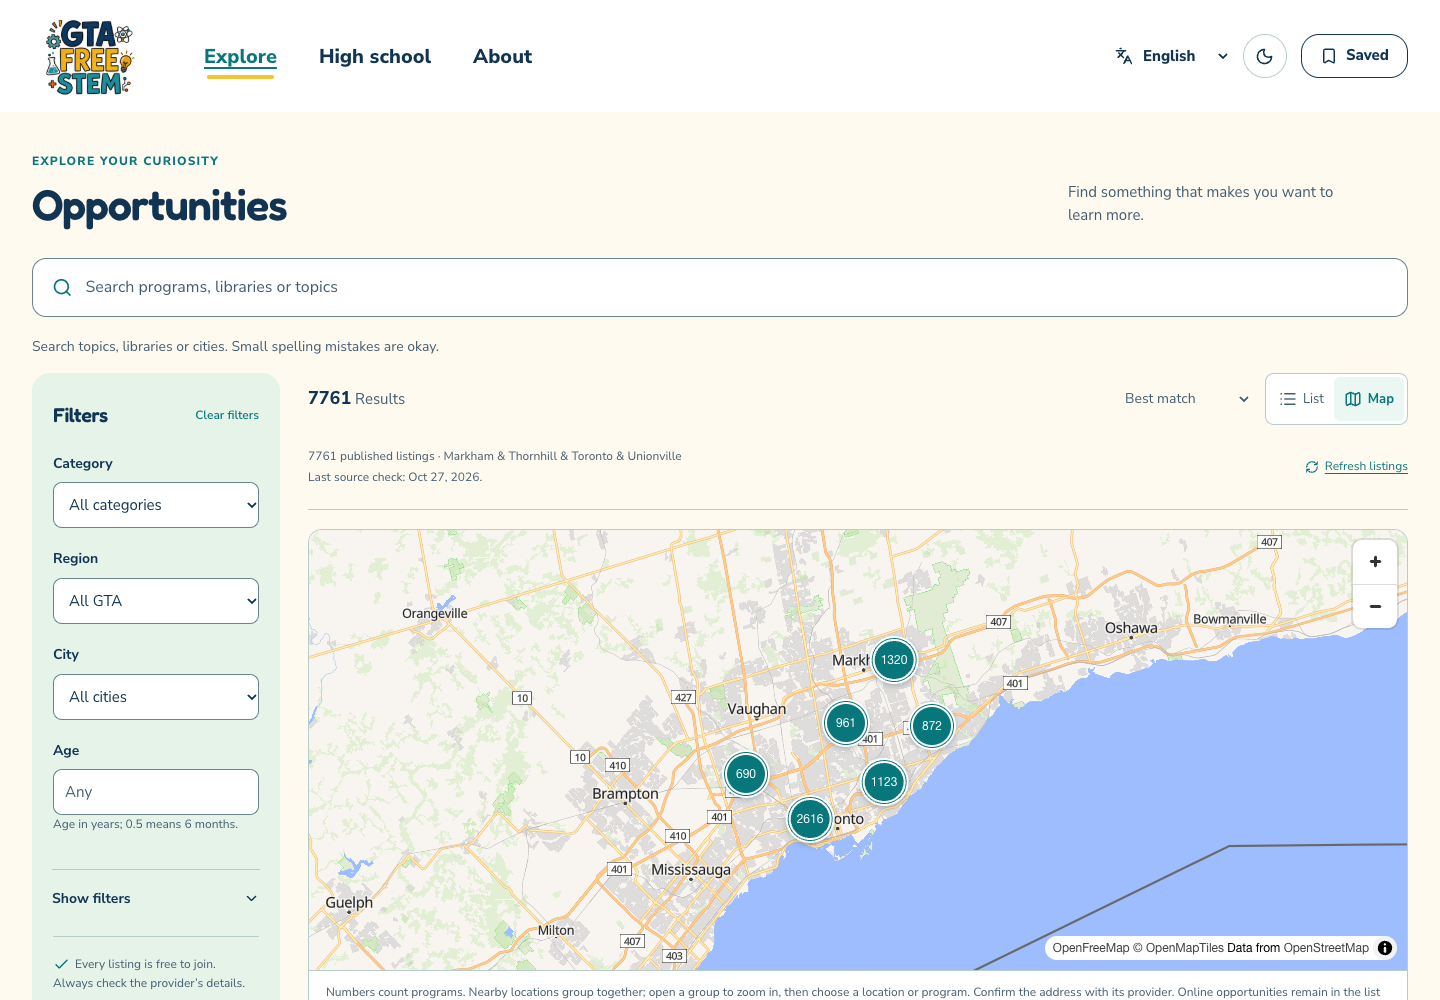
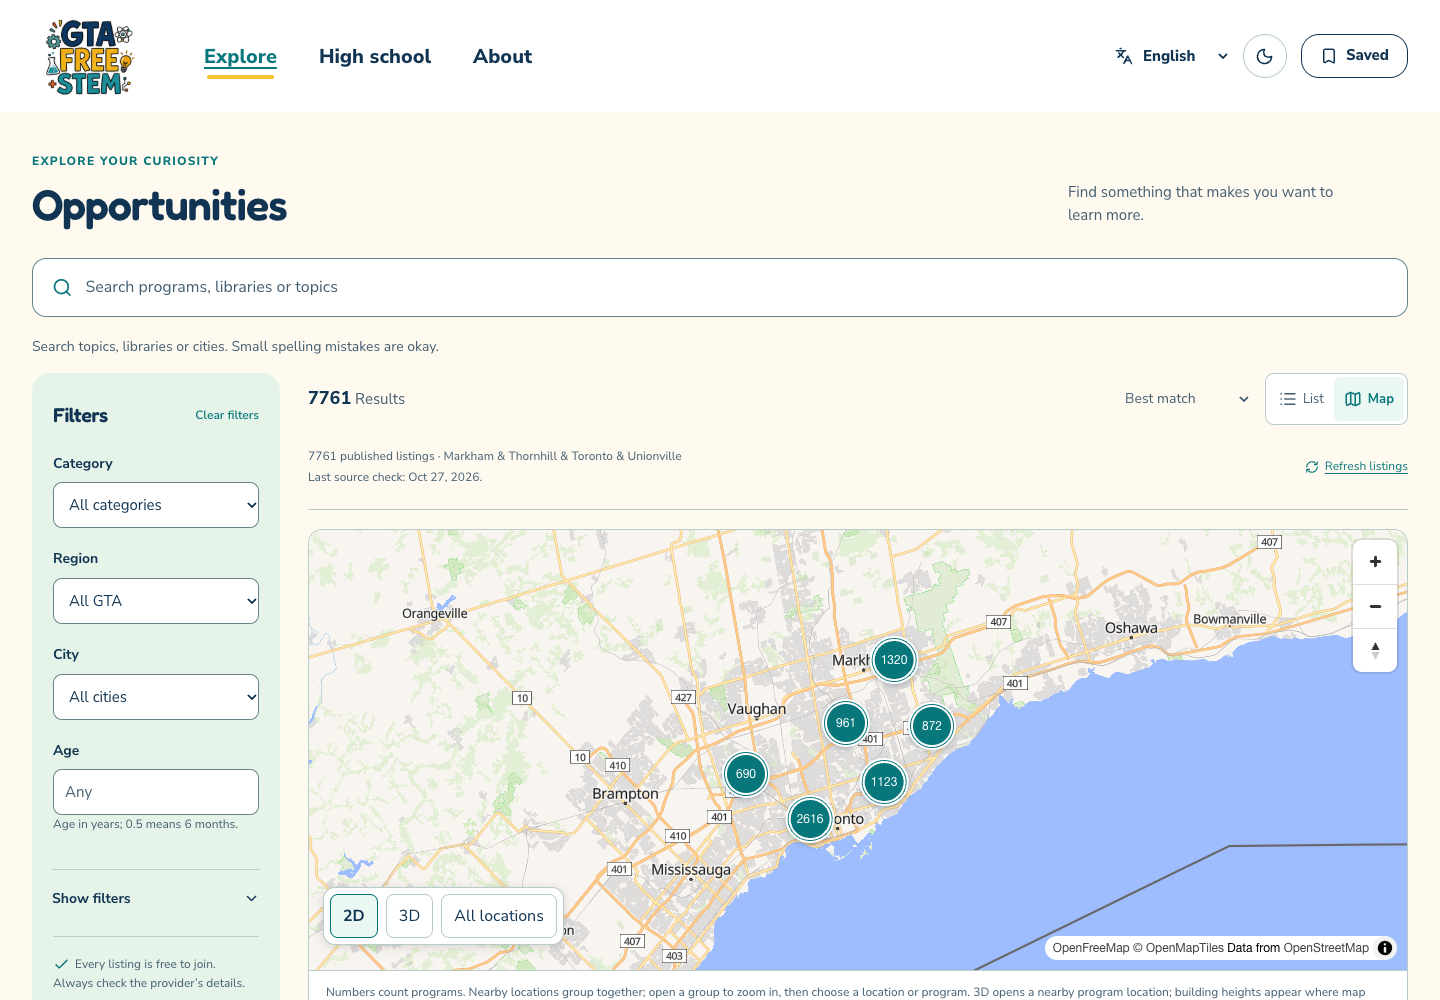
Show the live upright science branding and real 3D map

Changed region(s): [[0.2188, 0.868, 0.4062, 0.961], [0.6562, 0.992, 0.9688, 1.0], [0.9375, 0.62, 0.9688, 0.682]]

diff --git a/docs/showcase/README.md b/docs/showcase/README.md
@@ -1,11 +1,14 @@
 # Website screenshots and release checks
 
-These images were captured from the public website on October 27, 2026, after deploying [website release 779064a](https://github.com/rupayon123/gta-free-stem-opportunities/commit/779064a6e3bceffacb51639d95c6ddb825a6ce60).
+These images were captured from the public website on October 27, 2026, after deploying [website release d98c5d3](https://github.com/rupayon123/gta-free-stem-opportunities/commit/d98c5d3a4e4785ae40efe4e06824af8d9ed14fda).
 
 | Screenshot | What it shows | Browser viewport |
 | --- | --- | --- |
 | [Home](web-home-live-2026-10-27.png) | Original GTA logo, science icons, search and visible city/age/category filters | 1440 × 1000 |
 | [Map](web-browse-live-2026-10-27.png) | The default activity view, grouped location markers and the List switch | 1440 × 1000 |
+| [3D neighbourhood](web-3d-live-2026-10-27.png) | Real building heights and the 2D/3D/All locations controls | 1440 × 1000 |
+| [Dark 3D](web-3d-dark-live-2026-10-27.png) | 3D buildings after a live theme switch | 1440 × 1000 |
+| [Mobile 3D](web-3d-mobile-live-2026-10-27.png) | Narrow-screen map and touch controls | 390 × 844 |
 | [List](web-list-live-2026-10-27.png) | The same activities and filters presented as cards | 1440 × 1000 |
 | [Mobile](web-mobile-live-2026-10-27.png) | Compact branding and the search/filter form on a narrow screen | 390 × 1000 |
 
@@ -13,7 +16,7 @@ Capture method: headless Google Chrome with reduced motion enabled. Images are u
 
 ## Checks for this release
 
-Before pushing the application update, TypeScript, the full website QA suite, production build, dependency audit and all 7,810 sitemap/canonical-page checks passed. Browser checks covered phone, small phone, tablet and desktop layouts; animation pause/resume, keyboard operation and reduced motion; dark mode and Urdu right-to-left layout; typo search; Map-first and the List switch; saved activities surviving reload; directory/detail links; rapid query changes; and the List fallback when map tiles are unavailable. The production dependency audit reported zero vulnerabilities.
+Before pushing the application update, TypeScript, the full website QA suite, production build, dependency audit and all 7,810 sitemap/canonical-page checks passed. Browser checks covered phone, small phone, tablet and desktop layouts; whole-logo click/keyboard pause and resume with a jiggle, upright icons at five orbit positions and reduced motion; dark mode and Urdu right-to-left layout; typo search; Map-first, real 3D building rendering on desktop and phone in light/dark mode, 2D/3D/All locations controls and the List switch; saved activities surviving reload; directory/detail links; rapid query changes; and the List fallback when map tiles are unavailable. The production dependency audit reported zero vulnerabilities.
 
 Public-site checks verified the deployed release and the unchanged 1,875-record native feed, and captured the real map and list views. Counts are a snapshot, not a promise of registration availability. The original provider confirms schedules, spaces and registration.
 

diff --git a/README.md b/README.md
@@ -9,11 +9,11 @@ This repository contains the public website, search tools and source collectors.
 ## The web experience
 
 <table>
-<tr><th width="50%">Start with an interest</th><th width="50%">Explore the map first</th></tr>
-<tr><td align="center"><a href="docs/showcase/web-home-live-2026-10-27.png"><img src="docs/showcase/web-home-live-2026-10-27.png" alt="Live website home showing the free activity search and optional city, age, and category filters" width="440"></a></td><td align="center"><a href="docs/showcase/web-browse-live-2026-10-27.png"><img src="docs/showcase/web-browse-live-2026-10-27.png" alt="Live activity directory opening in Map view with location markers, visible filters, and the List switch" width="440"></a></td></tr>
+<tr><th width="50%">Start with an interest</th><th width="50%">Explore in 3D</th></tr>
+<tr><td align="center"><a href="docs/showcase/web-home-live-2026-10-27.png"><img src="docs/showcase/web-home-live-2026-10-27.png" alt="Live website home showing the free activity search and optional city, age, and category filters" width="440"></a></td><td align="center"><a href="docs/showcase/web-3d-live-2026-10-27.png"><img src="docs/showcase/web-3d-live-2026-10-27.png" alt="Live activity directory with 3D buildings, real program location markers, visible filters and 2D/3D/List controls" width="440"></a></td></tr>
 </table>
 
-Captured from the [public website](https://gta-free-stem.pages.dev/) on October 27, 2026 at a 1440 × 1000 desktop viewport. [See the List view](docs/showcase/web-list-live-2026-10-27.png), [mobile layout](docs/showcase/web-mobile-live-2026-10-27.png), and [capture details](docs/showcase/README.md). These unretouched browser captures show the live release; result counts change as listings refresh.
+Captured from the [public website](https://gta-free-stem.pages.dev/) on October 27, 2026 at a 1440 × 1000 desktop viewport. [See the map overview](docs/showcase/web-browse-live-2026-10-27.png), [List view](docs/showcase/web-list-live-2026-10-27.png), [mobile layout](docs/showcase/web-mobile-live-2026-10-27.png), and [capture details](docs/showcase/README.md). These unretouched browser captures show the live release; result counts change as listings refresh.
 
 ## What you can do
 
